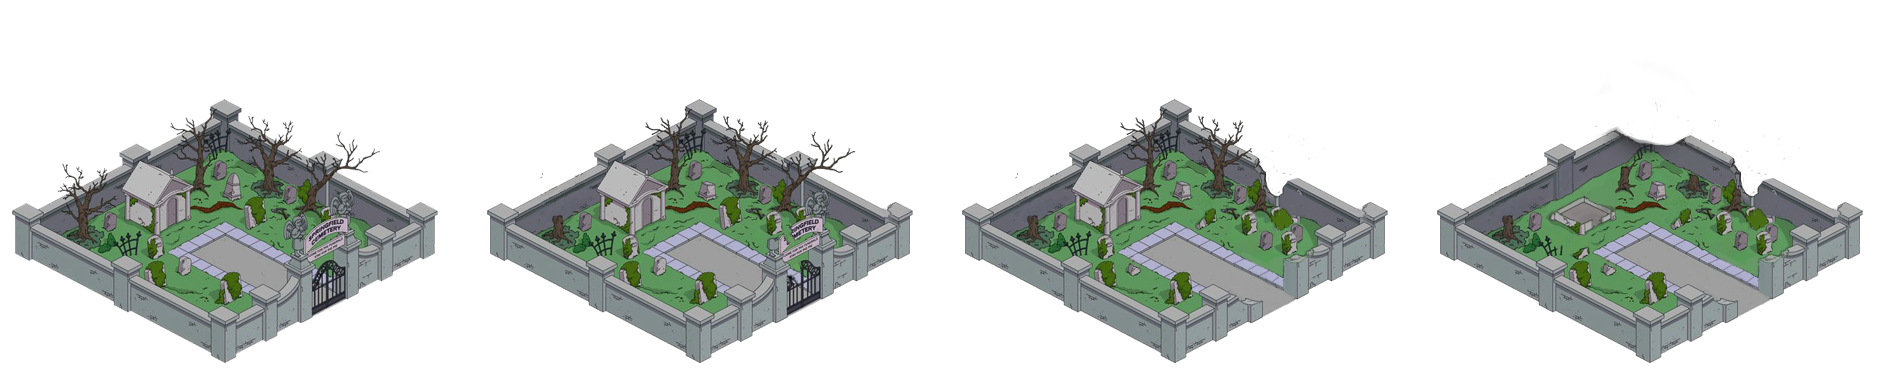
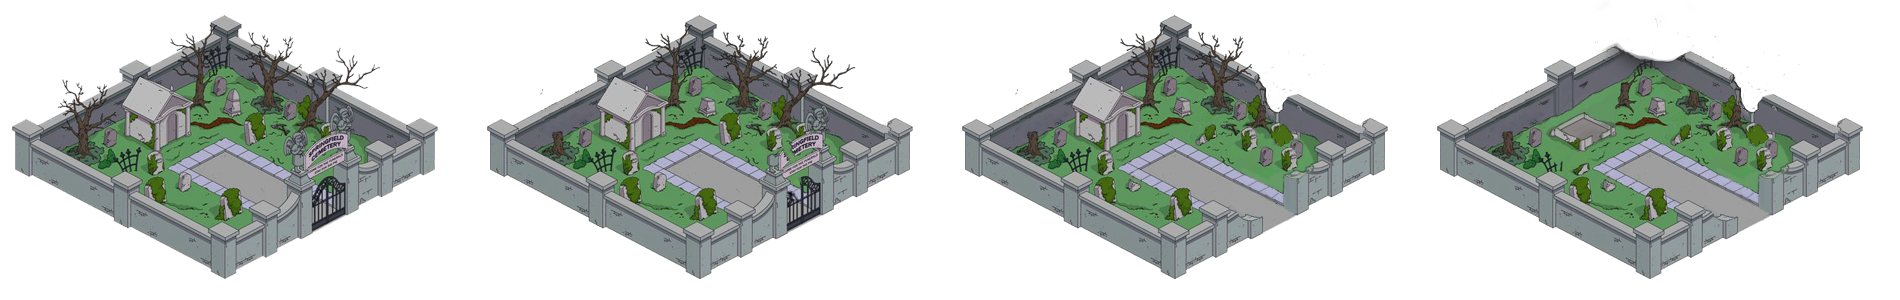
edited base zombie town image

diff --git a/src/base.js b/src/base.js
@@ -17,7 +17,7 @@ humanBaseImg.image.onload = (function(){
 numAllAssets++;
 
 var zombieBaseImg = {
-	image_src : "img/base_zombie2.png",
+	image_src : "img/base_zombie.png",
 	max_num_sprites : 4,
 	num_sprites_horz : 4,
 	num_sprites_vert : 1,
@@ -192,8 +192,8 @@ var baseObject = function(pos_x, pos_y )
 
         FindIndicator("money").txt = this.resource.toString();
         this.hpBar.update( deltaTime );
-        console.log("base = " + this.x + ", " + this.y + " : " + this.width + ", " + this.height );
-        console.log("hp = " + this.hpBar.hp_x + ", " + this.hpBar.hp_y + " : " + this.hpBar.hp_width + ", " + this.hpBar.hp_height );
+        //console.log("base = " + this.x + ", " + this.y + " : " + this.width + ", " + this.height );
+        //console.log("hp = " + this.hpBar.hp_x + ", " + this.hpBar.hp_y + " : " + this.hpBar.hp_width + ", " + this.hpBar.hp_height );
     };
 
 	this.render = function(context)
